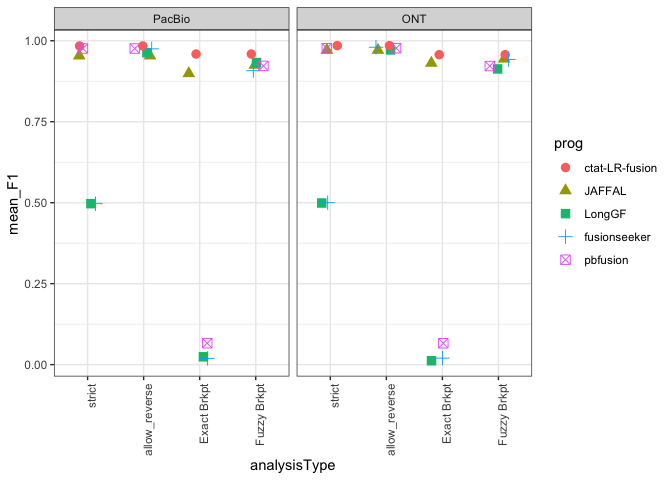
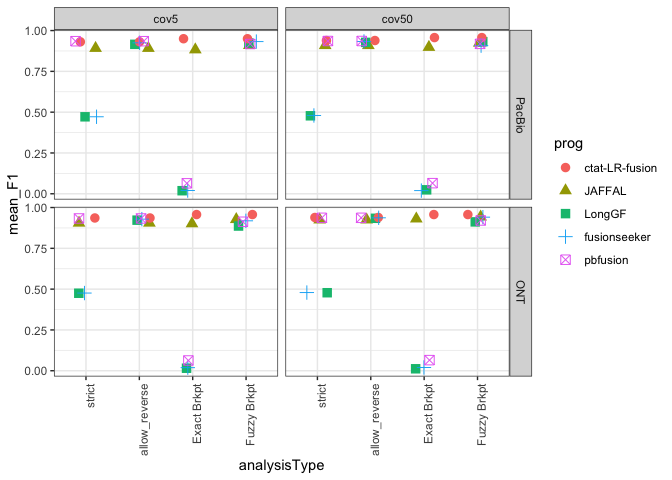
updated for PR-AUC

diff --git a/1.Benchmark_Simulated_Fusions/1b.pbsim3_simulated_reads/simulated_reads_summary.md b/1.Benchmark_Simulated_Fusions/1b.pbsim3_simulated_reads/simulated_reads_summary.md
@@ -9,22 +9,24 @@ chemistry simulated reads (via pbsim3).
 See the subdirectories for the individual analyses:
 1b.1.PacBio_simulations and 1b.2.ONT_simulations
 
+# Examine peak F1 score
+
 ``` r
-pacbio_summary_data = read.table("1b.1.PacBio_simulations/PacBio_sim.combined_results.tsv", header=T, sep="\t")
+pacbio_F1_summary_data = read.table("1b.1.PacBio_simulations/PacBio_sim.mean_F1.combined_results.tsv", header=T, sep="\t")
 
-pacbio_summary_data = pacbio_summary_data %>% mutate(seqTech = "PacBio")
+pacbio_F1_summary_data = pacbio_F1_summary_data %>% mutate(seqTech = "PacBio")
 
 
-pacbio_summary_data %>% head()
+pacbio_F1_summary_data %>% head()
 ```
 
     ##   rep_num coverage_level pass_count           prog  analysisType mean_F1
-    ## 1    rep1          cov50         20         JAFFAL allow_reverse  0.9536
-    ## 2    rep1          cov50         20         JAFFAL        strict  0.9536
-    ## 3    rep1          cov50         20         LongGF allow_reverse  0.9632
-    ## 4    rep1          cov50         20         LongGF        strict  0.4970
-    ## 5    rep1          cov50         20 ctat-LR-fusion allow_reverse  0.9840
-    ## 6    rep1          cov50         20 ctat-LR-fusion        strict  0.9840
+    ## 1    rep1           cov5         20         JAFFAL allow_reverse  0.8918
+    ## 2    rep1           cov5         20         JAFFAL        strict  0.8918
+    ## 3    rep1           cov5         20         LongGF allow_reverse  0.9156
+    ## 4    rep1           cov5         20         LongGF        strict  0.4716
+    ## 5    rep1           cov5         20 ctat-LR-fusion allow_reverse  0.9310
+    ## 6    rep1           cov5         20 ctat-LR-fusion        strict  0.9310
     ##   seqTech
     ## 1  PacBio
     ## 2  PacBio
@@ -34,35 +36,35 @@ pacbio_summary_data %>% head()
     ## 6  PacBio
 
 ``` r
-ONT_summary_data = read.table("1b.2.ONT_simulations/ONT_sim.combined_results.tsv", header=T, sep="\t")
+ONT_F1_summary_data = read.table("1b.2.ONT_simulations/ONT_sim.mean_F1.combined_results.tsv", header=T, sep="\t")
 
-ONT_summary_data = ONT_summary_data %>% mutate(seqTech = "ONT")
+ONT_F1_summary_data = ONT_F1_summary_data %>% mutate(seqTech = "ONT")
 
-ONT_summary_data %>% head()
+ONT_F1_summary_data %>% head()
 ```
 
     ##   coverage_level           prog  analysisType mean_F1 seqTech
-    ## 1          cov50         JAFFAL allow_reverse  0.9710     ONT
-    ## 2          cov50         JAFFAL        strict  0.9710     ONT
-    ## 3          cov50         LongGF allow_reverse  0.9718     ONT
-    ## 4          cov50         LongGF        strict  0.4990     ONT
-    ## 5          cov50 ctat-LR-fusion allow_reverse  0.9850     ONT
-    ## 6          cov50 ctat-LR-fusion        strict  0.9850     ONT
+    ## 1           cov5         JAFFAL allow_reverse  0.9054     ONT
+    ## 2           cov5         JAFFAL        strict  0.9054     ONT
+    ## 3           cov5         LongGF allow_reverse  0.9226     ONT
+    ## 4           cov5         LongGF        strict  0.4748     ONT
+    ## 5           cov5 ctat-LR-fusion allow_reverse  0.9360     ONT
+    ## 6           cov5 ctat-LR-fusion        strict  0.9360     ONT
 
 ``` r
-combined_data = bind_rows(pacbio_summary_data, ONT_summary_data)
+combined_F1_data = bind_rows(pacbio_F1_summary_data, ONT_F1_summary_data)
 
 
-combined_data %>% head()
+combined_F1_data %>% head()
 ```
 
     ##   rep_num coverage_level pass_count           prog  analysisType mean_F1
-    ## 1    rep1          cov50         20         JAFFAL allow_reverse  0.9536
-    ## 2    rep1          cov50         20         JAFFAL        strict  0.9536
-    ## 3    rep1          cov50         20         LongGF allow_reverse  0.9632
-    ## 4    rep1          cov50         20         LongGF        strict  0.4970
-    ## 5    rep1          cov50         20 ctat-LR-fusion allow_reverse  0.9840
-    ## 6    rep1          cov50         20 ctat-LR-fusion        strict  0.9840
+    ## 1    rep1           cov5         20         JAFFAL allow_reverse  0.8918
+    ## 2    rep1           cov5         20         JAFFAL        strict  0.8918
+    ## 3    rep1           cov5         20         LongGF allow_reverse  0.9156
+    ## 4    rep1           cov5         20         LongGF        strict  0.4716
+    ## 5    rep1           cov5         20 ctat-LR-fusion allow_reverse  0.9310
+    ## 6    rep1           cov5         20 ctat-LR-fusion        strict  0.9310
     ##   seqTech
     ## 1  PacBio
     ## 2  PacBio
@@ -72,7 +74,7 @@ combined_data %>% head()
     ## 6  PacBio
 
 ``` r
-combined_data$prog = factor(combined_data$prog, levels = c('ctat-LR-fusion',
+combined_F1_data$prog = factor(combined_F1_data$prog, levels = c('ctat-LR-fusion',
                                                            'JAFFAL',
                                                            'LongGF',
                                                            'fusionseeker',
@@ -80,7 +82,21 @@ combined_data$prog = factor(combined_data$prog, levels = c('ctat-LR-fusion',
 ```
 
 ``` r
-paperfig = combined_data %>%
+combined_F1_data %>%
+    mutate(analysisType = factor(analysisType, 
+                            levels=c('strict', 'allow_reverse', 'Exact Brkpt', 'Fuzzy Brkpt') )) %>%
+    mutate(seqTech = factor(seqTech, levels=c("PacBio", "ONT"))) %>%
+     ggplot() + theme_bw() +
+     geom_jitter(aes(x=analysisType, y=mean_F1, color=prog, shape=prog), width=0.2, height=0, size=rel(3)) +
+     facet_grid(vars(seqTech), vars(coverage_level)) +
+     theme(axis.text.x = element_text(angle = 90, hjust = 1)) 
+```
+
+![](simulated_reads_summary_files/figure-gfm/unnamed-chunk-5-1.png)<!-- -->
+
+``` r
+combined_F1_paperfig = combined_F1_data %>%
+    filter(coverage_level=="cov5") %>%
     mutate(analysisType = factor(analysisType, 
                             levels=c('strict', 'allow_reverse', 'Exact Brkpt', 'Fuzzy Brkpt') )) %>%
     mutate(seqTech = factor(seqTech, levels=c("PacBio", "ONT"))) %>%
@@ -90,11 +106,117 @@ paperfig = combined_data %>%
      theme(axis.text.x = element_text(angle = 90, hjust = 1)) 
 
 
-paperfig
+combined_F1_paperfig
 ```
 
-![](simulated_reads_summary_files/figure-gfm/unnamed-chunk-5-1.png)<!-- -->
+![](simulated_reads_summary_files/figure-gfm/unnamed-chunk-6-1.png)<!-- -->
 
 ``` r
-ggsave(paperfig, filename="pbsim3_bmark.paperfig.svg", width=8, height=5)
+ggsave(combined_F1_paperfig, filename="pbsim3_bmark.F1.paperfig.svg", width=8, height=5)
+```
+
+# Examine PR-AUC
+
+``` r
+pacbio_PR_AUC_summary_data = read.table("1b.1.PacBio_simulations/PacBio_sim.mean_PR_AUC.combined_results.tsv", header=T, sep="\t")
+
+pacbio_PR_AUC_summary_data = pacbio_PR_AUC_summary_data %>% mutate(seqTech = "PacBio")
+
+
+pacbio_PR_AUC_summary_data %>% head()
+```
+
+    ##   analysisType           prog rep_num coverage_level pass_count mean_AUC
+    ## 1       strict       pbfusion    rep1           cov5         20    0.892
+    ## 2       strict ctat-LR-fusion    rep1           cov5         20    0.870
+    ## 3       strict         JAFFAL    rep1           cov5         20    0.812
+    ## 4       strict   fusionseeker    rep1           cov5         20    0.232
+    ## 5       strict         LongGF    rep1           cov5         20    0.230
+    ## 6       strict       pbfusion    rep1          cov50         20    0.904
+    ##   seqTech
+    ## 1  PacBio
+    ## 2  PacBio
+    ## 3  PacBio
+    ## 4  PacBio
+    ## 5  PacBio
+    ## 6  PacBio
+
+``` r
+ONT_PR_AUC_summary_data = read.table("1b.2.ONT_simulations/ONT_sim.mean_PR_AUC.combined_results.tsv", header=T, sep="\t")
+
+ONT_PR_AUC_summary_data = ONT_PR_AUC_summary_data %>% mutate(seqTech = "ONT")
+
+ONT_PR_AUC_summary_data %>% head()
+```
+
+    ##   analysisType           prog coverage_level mean_AUC seqTech
+    ## 1       strict       pbfusion           cov5    0.900     ONT
+    ## 2       strict ctat-LR-fusion           cov5    0.884     ONT
+    ## 3       strict         JAFFAL           cov5    0.848     ONT
+    ## 4       strict   fusionseeker           cov5    0.236     ONT
+    ## 5       strict         LongGF           cov5    0.230     ONT
+    ## 6       strict       pbfusion          cov50    0.908     ONT
+
+``` r
+combined_PR_AUC_data = bind_rows(pacbio_PR_AUC_summary_data, ONT_PR_AUC_summary_data)
+
+
+combined_PR_AUC_data %>% head()
+```
+
+    ##   analysisType           prog rep_num coverage_level pass_count mean_AUC
+    ## 1       strict       pbfusion    rep1           cov5         20    0.892
+    ## 2       strict ctat-LR-fusion    rep1           cov5         20    0.870
+    ## 3       strict         JAFFAL    rep1           cov5         20    0.812
+    ## 4       strict   fusionseeker    rep1           cov5         20    0.232
+    ## 5       strict         LongGF    rep1           cov5         20    0.230
+    ## 6       strict       pbfusion    rep1          cov50         20    0.904
+    ##   seqTech
+    ## 1  PacBio
+    ## 2  PacBio
+    ## 3  PacBio
+    ## 4  PacBio
+    ## 5  PacBio
+    ## 6  PacBio
+
+``` r
+combined_PR_AUC_data$prog = factor(combined_PR_AUC_data$prog, levels = c('ctat-LR-fusion',
+                                                           'JAFFAL',
+                                                           'LongGF',
+                                                           'fusionseeker',
+                                                           'pbfusion') )
+```
+
+``` r
+combined_PR_AUC_data %>%
+    mutate(analysisType = factor(analysisType, 
+                            levels=c('strict', 'allow_reverse', 'Exact Brkpt', 'Fuzzy Brkpt') )) %>%
+    mutate(seqTech = factor(seqTech, levels=c("PacBio", "ONT"))) %>%
+     ggplot() + theme_bw() +
+     geom_jitter(aes(x=analysisType, y=mean_AUC, color=prog, shape=prog), width=0.2, height=0, size=rel(3)) +
+     facet_grid(vars(seqTech), vars(coverage_level)) +
+     theme(axis.text.x = element_text(angle = 90, hjust = 1)) 
+```
+
+![](simulated_reads_summary_files/figure-gfm/unnamed-chunk-12-1.png)<!-- -->
+
+``` r
+combined_PR_AUC_paperfig = combined_PR_AUC_data %>%
+    filter(coverage_level=="cov5") %>%
+    mutate(analysisType = factor(analysisType, 
+                            levels=c('strict', 'allow_reverse', 'Exact Brkpt', 'Fuzzy Brkpt') )) %>%
+    mutate(seqTech = factor(seqTech, levels=c("PacBio", "ONT"))) %>%
+     ggplot() + theme_bw() +
+     geom_jitter(aes(x=analysisType, y=mean_AUC, color=prog, shape=prog), width=0.2, height=0, size=rel(3)) +
+     facet_wrap(~seqTech) +
+     theme(axis.text.x = element_text(angle = 90, hjust = 1)) 
+
+
+combined_PR_AUC_paperfig
+```
+
+![](simulated_reads_summary_files/figure-gfm/unnamed-chunk-13-1.png)<!-- -->
+
+``` r
+ggsave(combined_PR_AUC_paperfig, filename="pbsim3_bmark.AUC.paperfig.svg", width=8, height=5)
 ```
